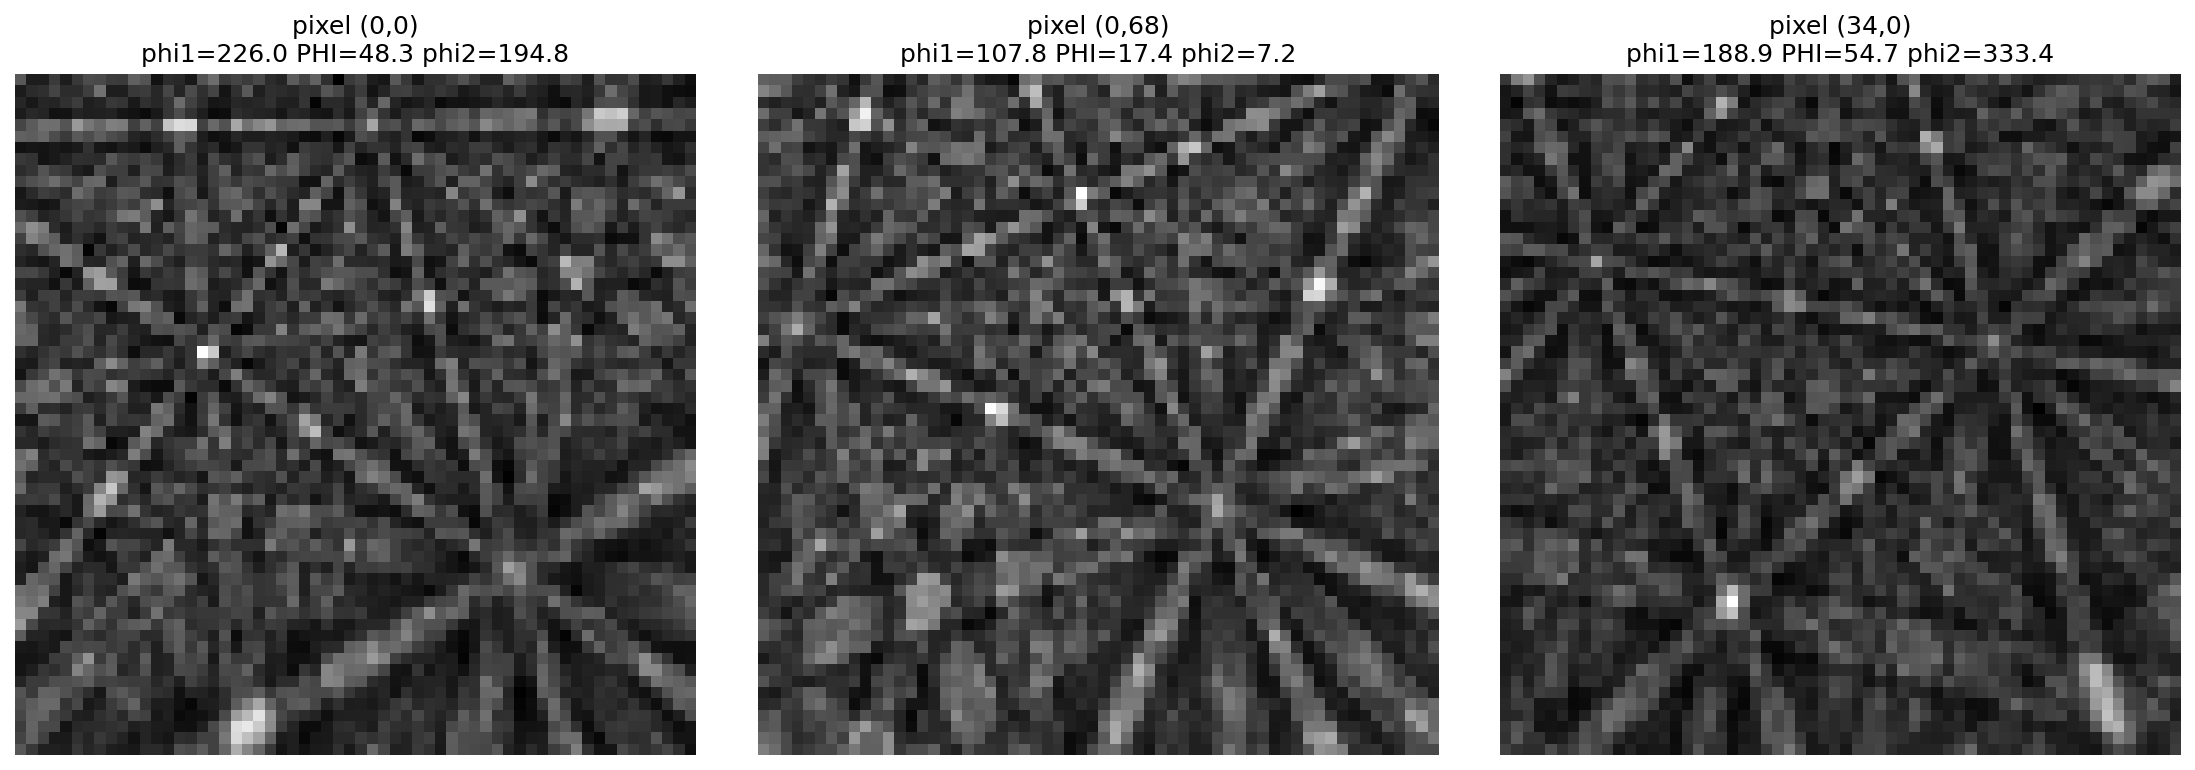
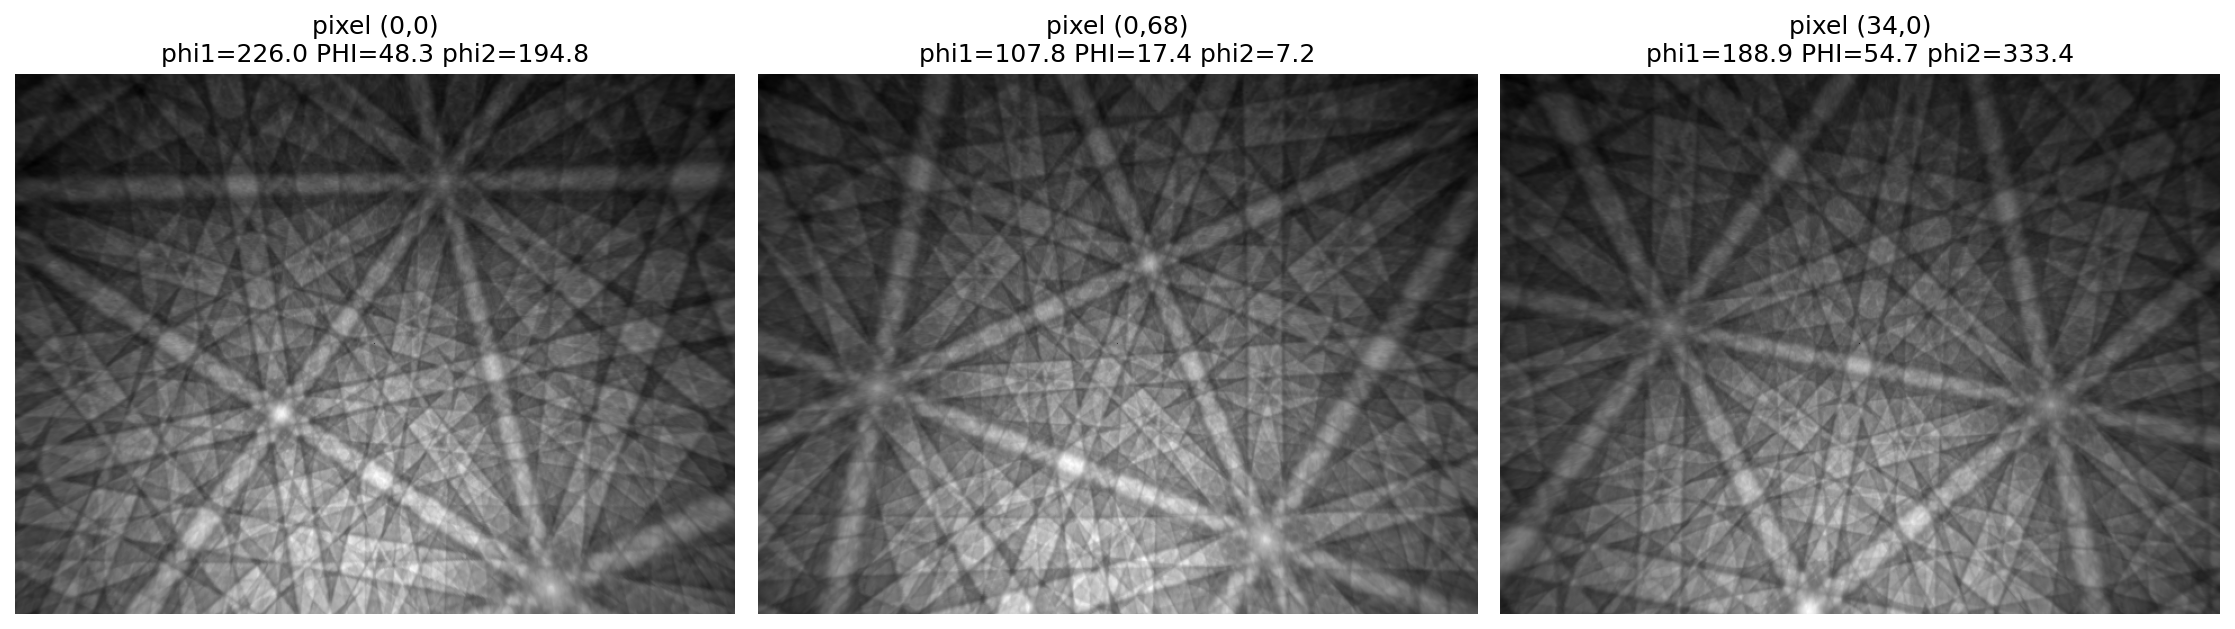
seeing the patterns

diff --git a/Dataset_creation/03_ebsd_pattern_simulation/view_patterns.py b/Dataset_creation/03_ebsd_pattern_simulation/view_patterns.py
@@ -2,7 +2,8 @@ import h5py, numpy as np, matplotlib
 matplotlib.use('Agg')
 import matplotlib.pyplot as plt
 
-f = h5py.File('Ni_EBSD_sim.h5', 'r')
+# f = h5py.File('Ni_EBSD_sim.h5', 'r')
+f = h5py.File('Ni_EBSD_sim_NOISY.h5', 'r')
 def find(name, obj):
     if isinstance(obj, h5py.Dataset) and obj.ndim >= 3:
         print(name, obj.shape, obj.dtype)
@@ -39,6 +40,6 @@ for k, i in enumerate(chosen):
     ax[k].set_title(labels[k])
     ax[k].axis('off')
 plt.tight_layout()
-plt.savefig('Ni_patterns.png', dpi=150, bbox_inches='tight')
-print('wrote Ni_patterns.png')
+plt.savefig('Ni_patterns_NOISY.png', dpi=150, bbox_inches='tight')
+print('wrote Ni_patterns_NOISY.png')
 print('chosen pattern indices (3 different grains):', chosen)
